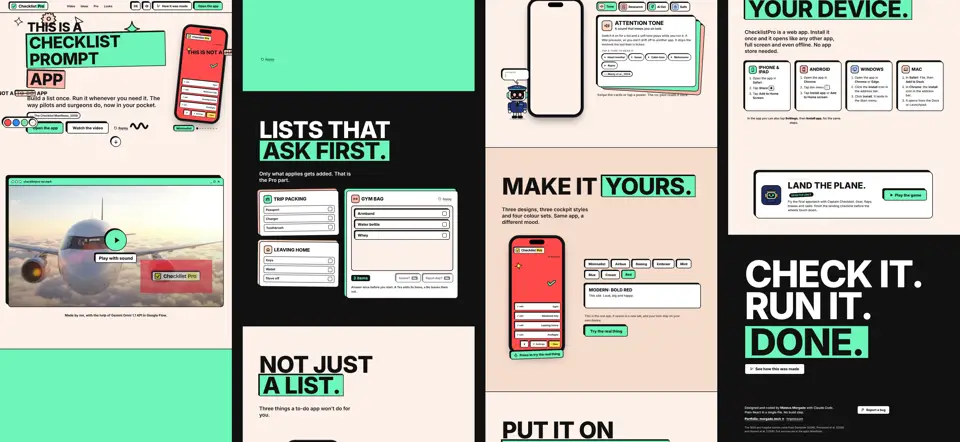
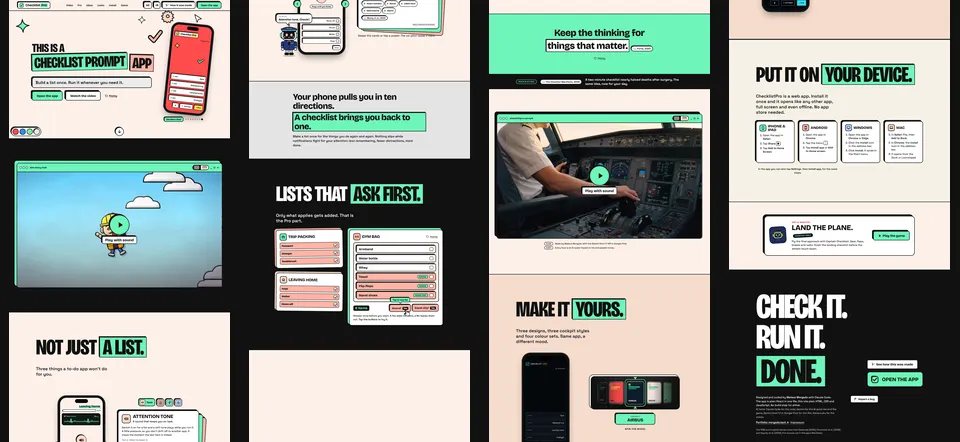
Cohesion: footer and AI credits, morgado.tech links, paper install section, fresh work-tree frames
- Footer says what is React (the app) and what is plain HTML/CSS/JS (this site),
  plus one line naming the AI tools; 'Gemini TTS 3.8 Flash' becomes 'Gemini 3.8 Flash'
- Canonical, share preview and every 'Open the app' link use checklist.morgado.tech
  and app.checklist.morgado.tech
- Install section on a paper background, breaking the run of red sections
- German 'Mach sie zu deiner.', Install and Game in the desktop menu
- Work tree: website stats 75 commits / ~14 h, a 'Today' frame for hero and page,
  palette frames re-shot from the current page; README lists the current sections

Claude-Session: https://claude.ai/code/session_01Ggus8v3osTjKtSPmUxgpTU

diff --git a/index.html b/index.html
@@ -27,13 +27,13 @@
 <link rel="preconnect" href="https://fonts.gstatic.com" crossorigin>
 <link rel="stylesheet" href="https://fonts.googleapis.com/css2?family=Bricolage+Grotesque:opsz,wdth,wght@12..96,75..100,200..800&family=Space+Grotesk:wght@400..700&display=swap">
 <link rel="stylesheet" href="css/site.css">
-<link rel="canonical" href="https://checklist-app-website.vercel.app/">
+<link rel="canonical" href="https://checklist.morgado.tech/">
 <meta property="og:type" content="website">
 <meta property="og:site_name" content="ChecklistPro">
-<meta property="og:url" content="https://checklist-app-website.vercel.app/">
+<meta property="og:url" content="https://checklist.morgado.tech/">
 <meta property="og:title" content="ChecklistPro: this is a checklist prompt app">
 <meta property="og:description" content="Not a to-do app. Not a habits app. Build a list once, run it whenever you need it, with one thumb.">
-<meta property="og:image" content="https://checklist-app-website.vercel.app/img/og.png">
+<meta property="og:image" content="https://checklist.morgado.tech/img/og.png">
 <meta property="og:image:type" content="image/png">
 <meta property="og:image:width" content="1200">
 <meta property="og:image:height" content="630">
@@ -41,7 +41,7 @@
 <meta name="twitter:card" content="summary_large_image">
 <meta name="twitter:title" content="ChecklistPro: this is a checklist prompt app">
 <meta name="twitter:description" content="Not a to-do app. Not a habits app. Build a list once, run it whenever you need it.">
-<meta name="twitter:image" content="https://checklist-app-website.vercel.app/img/og.png">
+<meta name="twitter:image" content="https://checklist.morgado.tech/img/og.png">
 </head>
 <body>
 <div class="grain" aria-hidden="true"></div>
@@ -63,19 +63,19 @@
     <span>Checklist<b>Pro</b></span>
   </a>
   <nav class="nav-links" aria-label="Sections">
-    <a href="#story">Video</a><a href="#pro">Pro</a><a href="#ideas">Ideas</a><a href="#looks">Looks</a>
+    <a href="#story">Video</a><a href="#pro">Pro</a><a href="#ideas">Ideas</a><a href="#looks">Looks</a><a href="#install">Install</a><a href="#game">Game</a>
   </nav>
   <div class="nav-cta">
     <button class="btn white icon lang" id="lang-toggle" type="button" data-no-i18n aria-label="Auf Deutsch wechseln">DE</button>
     <button class="btn white icon" id="sound-toggle" type="button" aria-pressed="true" aria-label="Click sounds: on. Press to turn off."><svg viewBox="0 0 24 24" aria-hidden="true"><path class="sp" d="M4 9v6h4l5 4V5L8 9z"/><path class="on-w" d="M16 8.5a5 5 0 0 1 0 7M18.5 6a8.5 8.5 0 0 1 0 12"/><path class="off-x" d="M16 9l5 6M21 9l-5 6"/></svg></button>
     <button class="btn white" id="open-journey" type="button" aria-label="How it was made: the work tree"><svg viewBox="0 0 24 24" aria-hidden="true"><path d="M6 4v8m0 0a3 3 0 1 0 0 6a3 3 0 0 0 0-6Zm0-8a2 2 0 1 0 0 .01M18 4v4a4 4 0 0 1-4 4h-2"/></svg><span>How it was made</span></button>
-    <a class="btn yellow" data-app href="https://checklist-app-topaz-six.vercel.app/" target="_blank" rel="noopener">Open the app</a>
+    <a class="btn yellow" data-app href="https://app.checklist.morgado.tech/" target="_blank" rel="noopener">Open the app</a>
     <button class="btn white icon menu-btn" id="menu-btn" type="button" aria-expanded="false" aria-controls="nav-panel" aria-label="Menu"><svg viewBox="0 0 24 24" aria-hidden="true"><path class="m1" d="M4 7h16"/><path class="m2" d="M4 12h16"/><path class="m3" d="M4 17h16"/></svg></button>
   </div>
   <div class="nav-panel" id="nav-panel" hidden>
     <a class="np-link" href="#story">Video</a><a class="np-link" href="#pro">Pro</a><a class="np-link" href="#ideas">Ideas</a><a class="np-link" href="#looks">Looks</a><a class="np-link" href="#install">Install</a><a class="np-link" href="#game">Game</a>
     <button class="btn white" id="np-journey" type="button"><svg viewBox="0 0 24 24" aria-hidden="true"><path d="M6 4v8m0 0a3 3 0 1 0 0 6a3 3 0 0 0 0-6Zm0-8a2 2 0 1 0 0 .01M18 4v4a4 4 0 0 1-4 4h-2"/></svg><span>How it was made</span></button>
-    <a class="btn yellow" data-app href="https://checklist-app-topaz-six.vercel.app/" target="_blank" rel="noopener">Open the app</a>
+    <a class="btn yellow" data-app href="https://app.checklist.morgado.tech/" target="_blank" rel="noopener">Open the app</a>
   </div>
 </header>
 
@@ -101,7 +101,7 @@
     <div class="confetti" id="confetti" aria-hidden="true"></div>
     <p class="sub reveal"><span class="sub-src">Build a list once. Run it whenever you need it.</span><span class="sub-type" aria-hidden="true" data-no-i18n></span></p>
     <div class="cta-row reveal">
-      <a class="btn big yellow" data-app href="https://checklist-app-topaz-six.vercel.app/" target="_blank" rel="noopener">Open the app</a>
+      <a class="btn big yellow" data-app href="https://app.checklist.morgado.tech/" target="_blank" rel="noopener">Open the app</a>
       <a class="btn big white" id="watch-btn" href="#story">Watch the video</a>
       <button class="replay" id="replay" type="button" aria-label="Replay the intro"><svg viewBox="0 0 24 24" aria-hidden="true"><path d="M4 12a8 8 0 1 0 3-6.2M4 4v4h4"/></svg>Replay</button>
     </div>
@@ -283,8 +283,8 @@
           </article>
           <article class="pw-card" data-scene="ai">
             <header><span class="pw-ic" style="--c:var(--yellow)"><svg viewBox="0 0 24 24"><rect x="9" y="2.5" width="6" height="11" rx="3"/><path d="M5.5 10.5a6.5 6.5 0 0 0 13 0M12 17v4M19.5 2.5l.7 1.8 1.8.7-1.8.7-.7 1.8-.7-1.8-1.8-.7 1.8-.7z"/></svg></span><div><h3 class="pw-name">AI quick list</h3><p class="pw-sub">Say it. Get a checklist.</p></div></header>
-            <p class="pw-more">Tap the bolt and say what’s on your mind, for up to 17 seconds. AI turns your words into a checklist you can edit before you save it. Good for groceries, packing, anything on the fly. Powered by the Gemini TTS 3.8 Flash model.</p>
-            <div class="pw-tags"><span>Gemini TTS 3.8 Flash</span><span>17 seconds</span><span>Edit before saving</span><span>3 a day</span></div>
+            <p class="pw-more">Tap the bolt and say what’s on your mind, for up to 17 seconds. AI turns your words into a checklist you can edit before you save it. Good for groceries, packing, anything on the fly. Powered by the Gemini 3.8 Flash model.</p>
+            <div class="pw-tags"><span>Gemini 3.8 Flash</span><span>17 seconds</span><span>Edit before saving</span><span>3 a day</span></div>
             <i class="pw-time"></i>
           </article>
           <article class="pw-card" data-scene="safe">
@@ -427,7 +427,7 @@
     <p class="lead reveal">Three designs, three cockpit styles and four colour sets. Same app, a different mood.</p>
     <div class="looks-grid">
       <div class="flow-phone">
-        <a class="phone-link" id="live-link" data-app href="https://checklist-app-topaz-six.vercel.app/" target="_blank" rel="noopener" aria-label="Open the real ChecklistPro app in a new tab">
+        <a class="phone-link" id="live-link" data-app href="https://app.checklist.morgado.tech/" target="_blank" rel="noopener" aria-label="Open the real ChecklistPro app in a new tab">
           <div class="phone tilt" id="looks-phone" style="--pw:min(300px, 72vw)"><div class="screen" id="looks-screen"></div></div>
         </a>
       </div>
@@ -447,7 +447,7 @@
 </section>
 
 <!-- INSTALL -->
-<section class="section" id="install" aria-labelledby="install-title">
+<section class="section paper" id="install" aria-labelledby="install-title">
   <div class="wrap">
     <h2 id="install-title" class="mega reveal"><span>Put it on</span> <span class="hl">your device.</span></h2>
     <p class="lead reveal">ChecklistPro is a web app. Install it once and it opens like any other app, full screen and even offline. No app store needed.</p>
@@ -494,9 +494,9 @@
   <div class="wrap">
     <div class="foot-top"><p class="foot-big">Check it.<br>Run it.<br><span class="hl">Done.</span></p>
       <div class="foot-acts"><button class="btn big white" id="open-journey-2" type="button"><svg viewBox="0 0 24 24" aria-hidden="true"><path d="M6 4v8m0 0a3 3 0 1 0 0 6a3 3 0 0 0 0-6Zm0-8a2 2 0 1 0 0 .01M18 4v4a4 4 0 0 1-4 4h-2"/></svg>See how this was made</button>
-      <a class="foot-cta" id="foot-cta" data-app href="https://checklist-app-topaz-six.vercel.app/" target="_blank" rel="noopener"><svg viewBox="0 0 64 64" aria-hidden="true"><rect x="9" y="9" width="40" height="40" rx="10" fill="#111"/><rect x="14" y="14" width="40" height="40" rx="10" class="fab-box"/><path d="M23 34.5l7 7 14.5-16" fill="none" stroke="#111" stroke-width="6" stroke-linecap="round" stroke-linejoin="round"/></svg><span>Open the app</span></a></div></div>
+      <a class="foot-cta" id="foot-cta" data-app href="https://app.checklist.morgado.tech/" target="_blank" rel="noopener"><svg viewBox="0 0 64 64" aria-hidden="true"><rect x="9" y="9" width="40" height="40" rx="10" fill="#111"/><rect x="14" y="14" width="40" height="40" rx="10" class="fab-box"/><path d="M23 34.5l7 7 14.5-16" fill="none" stroke="#111" stroke-width="6" stroke-linecap="round" stroke-linejoin="round"/></svg><span>Open the app</span></a></div></div>
     <div class="foot-row">
-      <p>Designed and coded by <b>Mateus Morgado</b> with Claude Code.<br>Plain React in a single file. No build step.<br><a class="foot-link" href="https://morgado.tech" target="_blank" rel="noopener">Portfolio: morgado.tech ↗</a> · <button class="foot-link as-link" id="open-imprint" type="button">Impressum</button></p>
+      <p>Designed and coded by <b>Mateus Morgado</b> with Claude Code.<br>The app is plain React in one file, this site plain HTML, CSS and JavaScript. No build step for either.<br><span class="foot-ai">AI tools: Claude Code for the code, Gemini for the AI quick list and the game, Gemini Omni 1.1 in Google Flow for the film, ElevenLabs for the voices.</span><br><a class="foot-link" href="https://morgado.tech" target="_blank" rel="noopener">Portfolio: morgado.tech ↗</a> · <button class="foot-link as-link" id="open-imprint" type="button">Impressum</button></p>
       <p><button class="btn white" id="open-report" type="button"><svg viewBox="0 0 24 24" aria-hidden="true"><path d="M5 21V4m0 0h11l-2 4 2 4H5"/></svg>Report a bug</button></p>
       <p class="small">The 1935 and hospital stories come from Gawande (2009), Pronovost et al. (2006) and Haynes et al. (2009). Full sources are in the app’s Manifesto.</p>
     </div>
@@ -572,8 +572,8 @@
       <dl class="jf-stats jw-stats">
         <div><dt>Prompts from Mateus</dt><dd data-to="69">69</dd></div>
         <div><dt>Steps by Claude Code</dt><dd data-to="497">497</dd></div>
-        <div><dt>Commits</dt><dd data-to="35">35</dd></div>
-        <div><dt>Hours of work</dt><dd data-to="5" data-pre="≈ ">≈ 5</dd></div>
+        <div><dt>Commits</dt><dd data-to="75">75</dd></div>
+        <div><dt>Hours of work</dt><dd data-to="14" data-pre="≈ ">≈ 14</dd></div>
       </dl>
     </div>
     <div class="jf" id="jf">

diff --git a/js/evo.js b/js/evo.js
@@ -1,2 +1,2 @@
 // Screenshots of this website at each commit, for the stop-motion in the work tree. [file, time of the commit]
-window.EVO = {"hero": [["hero-00.webp", "11:12"], ["hero-01.webp", "11:22"], ["hero-02.webp", "13:48"], ["hero-03.webp", "13:56"], ["hero-04.webp", "13:59"], ["hero-05.webp", "14:05"], ["hero-06.webp", "14:05"], ["hero-07.webp", "14:08"], ["hero-08.webp", "14:13"], ["hero-09.webp", "14:18"], ["hero-10.webp", "14:18"], ["hero-11.webp", "14:27"], ["hero-12.webp", "14:31"], ["hero-13.webp", "14:36"], ["hero-14.webp", "14:41"], ["hero-15.webp", "14:44"], ["hero-16.webp", "14:54"], ["hero-17.webp", "15:01"], ["hero-18.webp", "15:07"], ["hero-19.webp", "15:09"], ["hero-20.webp", "15:51"], ["hero-21.webp", "16:00"], ["hero-22.webp", "16:07"], ["hero-23.webp", "16:19"], ["hero-24.webp", "18:47"], ["hero-25.webp", "18:49"], ["hero-26.webp", "18:54"], ["hero-27.webp", "18:59"], ["hero-28.webp", "19:02"], ["hero-29.webp", "19:09"], ["hero-30.webp", "19:15"], ["hero-31.webp", "19:18"], ["hero-32.webp", "19:21"], ["hero-33.webp", "19:27"]], "page": [["page-00.webp", "11:12"], ["page-01.webp", "11:22"], ["page-04.webp", "13:59"], ["page-05.webp", "14:05"], ["page-06.webp", "14:05"], ["page-07.webp", "14:08"], ["page-08.webp", "14:13"], ["page-09.webp", "14:18"], ["page-11.webp", "14:27"], ["page-12.webp", "14:31"], ["page-13.webp", "14:36"], ["page-14.webp", "14:41"], ["page-15.webp", "14:44"], ["page-16.webp", "14:54"], ["page-17.webp", "15:01"], ["page-18.webp", "15:07"], ["page-19.webp", "15:09"], ["page-20.webp", "15:51"], ["page-21.webp", "16:00"], ["page-22.webp", "16:07"], ["page-23.webp", "16:19"], ["page-24.webp", "18:47"], ["page-25.webp", "18:49"], ["page-26.webp", "18:54"], ["page-27.webp", "18:59"], ["page-28.webp", "19:02"], ["page-29.webp", "19:09"], ["page-30.webp", "19:15"], ["page-31.webp", "19:18"], ["page-32.webp", "19:21"], ["page-33.webp", "19:27"], ["pal-blue.webp", "Blue"], ["pal-mint.webp", "Mint"], ["pal-cream.webp", "Cream"], ["page-33.webp", "Red"]]};
+window.EVO = {"hero": [["hero-00.webp", "11:12"], ["hero-01.webp", "11:22"], ["hero-02.webp", "13:48"], ["hero-03.webp", "13:56"], ["hero-04.webp", "13:59"], ["hero-05.webp", "14:05"], ["hero-06.webp", "14:05"], ["hero-07.webp", "14:08"], ["hero-08.webp", "14:13"], ["hero-09.webp", "14:18"], ["hero-10.webp", "14:18"], ["hero-11.webp", "14:27"], ["hero-12.webp", "14:31"], ["hero-13.webp", "14:36"], ["hero-14.webp", "14:41"], ["hero-15.webp", "14:44"], ["hero-16.webp", "14:54"], ["hero-17.webp", "15:01"], ["hero-18.webp", "15:07"], ["hero-19.webp", "15:09"], ["hero-20.webp", "15:51"], ["hero-21.webp", "16:00"], ["hero-22.webp", "16:07"], ["hero-23.webp", "16:19"], ["hero-24.webp", "18:47"], ["hero-25.webp", "18:49"], ["hero-26.webp", "18:54"], ["hero-27.webp", "18:59"], ["hero-28.webp", "19:02"], ["hero-29.webp", "19:09"], ["hero-30.webp", "19:15"], ["hero-31.webp", "19:18"], ["hero-32.webp", "19:21"], ["hero-33.webp", "19:27"], ["hero-34.webp", "Today"]], "page": [["page-00.webp", "11:12"], ["page-01.webp", "11:22"], ["page-04.webp", "13:59"], ["page-05.webp", "14:05"], ["page-06.webp", "14:05"], ["page-07.webp", "14:08"], ["page-08.webp", "14:13"], ["page-09.webp", "14:18"], ["page-11.webp", "14:27"], ["page-12.webp", "14:31"], ["page-13.webp", "14:36"], ["page-14.webp", "14:41"], ["page-15.webp", "14:44"], ["page-16.webp", "14:54"], ["page-17.webp", "15:01"], ["page-18.webp", "15:07"], ["page-19.webp", "15:09"], ["page-20.webp", "15:51"], ["page-21.webp", "16:00"], ["page-22.webp", "16:07"], ["page-23.webp", "16:19"], ["page-24.webp", "18:47"], ["page-25.webp", "18:49"], ["page-26.webp", "18:54"], ["page-27.webp", "18:59"], ["page-28.webp", "19:02"], ["page-29.webp", "19:09"], ["page-30.webp", "19:15"], ["page-31.webp", "19:18"], ["page-32.webp", "19:21"], ["page-33.webp", "19:27"], ["page-34.webp", "Today"], ["pal-blue.webp", "Blue"], ["pal-mint.webp", "Mint"], ["pal-cream.webp", "Cream"], ["page-34.webp", "Red"]]};

diff --git a/js/i18n-data.js b/js/i18n-data.js
@@ -53,7 +53,7 @@ window.I18N_DE = {
 "No cloud": "Keine Cloud",
 "Stored on your device": "Auf deinem Gerät gespeichert",
 "Works offline": "Funktioniert offline",
-"Tap the bolt and say what’s on your mind, for up to 17 seconds. AI turns your words into a checklist you can edit before you save it. Good for groceries, packing, anything on the fly. Powered by the Gemini TTS 3.8 Flash model.": "Tippe auf den Blitz und sag bis zu 17 Sekunden lang, was dir durch den Kopf geht. Die KI macht aus deinen Worten eine Checkliste, die du vor dem Speichern bearbeiten kannst. Gut für Einkäufe, Packen, alles, was spontan anfällt. Angetrieben vom Modell Gemini TTS 3.8 Flash.",
+"Tap the bolt and say what’s on your mind, for up to 17 seconds. AI turns your words into a checklist you can edit before you save it. Good for groceries, packing, anything on the fly. Powered by the Gemini 3.8 Flash model.": "Tippe auf den Blitz und sag bis zu 17 Sekunden lang, was dir durch den Kopf geht. Die KI macht aus deinen Worten eine Checkliste, die du vor dem Speichern bearbeiten kannst. Gut für Einkäufe, Packen, alles, was spontan anfällt. Angetrieben vom Modell Gemini 3.8 Flash.",
 "Book": "Buch",
 "Why short checklists catch the steps that even experts skip, from cockpits to operating rooms.": "Warum kurze Checklisten die Schritte auffangen, die selbst Profis überspringen, vom Cockpit bis zum OP.",
 "A five-step checklist in intensive care units cut these infections by up to 66%.": "Eine Checkliste mit fünf Schritten senkte diese Infektionen auf Intensivstationen um bis zu 66 %.",
@@ -333,8 +333,8 @@ window.I18N_DE = {
 "Pick your cues": "Wähle deine Signale",
 "Add items, drag to reorder": "Einträge hinzufügen, zum Sortieren ziehen",
 "Tap a step to jump to it. The phone plays on its own.": "Tippe auf einen Schritt, um dorthin zu springen. Das Handy spielt von allein.",
-"Make it": "Mach es",
-"yours.": "zu deinem.",
+"Make it": "Mach sie",
+"yours.": "zu deiner.",
 "Three designs, three cockpit styles and four colour sets. Same app, a different mood.": "Drei Designs, drei Cockpit-Stile und vier Farbsets. Dieselbe App, eine andere Stimmung.",
 "Minimalist": "Minimalistisch",
 "Mint": "Mint",
@@ -375,7 +375,8 @@ window.I18N_DE = {
 "Done.": "Erledigt.",
 "Designed and coded by": "Entworfen und programmiert von",
 "with Claude Code.": "mit Claude Code.",
-"Plain React in a single file. No build step.": "Reines React in einer einzigen Datei. Kein Build-Schritt.",
+"The app is plain React in one file, this site plain HTML, CSS and JavaScript. No build step for either.": "Die App ist reines React in einer Datei, diese Seite reines HTML, CSS und JavaScript. Beides ohne Build-Schritt.",
+"AI tools: Claude Code for the code, Gemini for the AI quick list and the game, Gemini Omni 1.1 in Google Flow for the film, ElevenLabs for the voices.": "KI-Werkzeuge: Claude Code für den Code, Gemini für die KI-Schnellliste und das Spiel, Gemini Omni 1.1 in Google Flow für den Film, ElevenLabs für die Stimmen.",
 "Report a bug": "Fehler melden",
 "The 1935 and hospital stories come from Gawande (2009), Pronovost et al. (2006) and Haynes et al. (2009). Full sources are in the app’s Manifesto.": "Die Geschichten von 1935 und aus den Krankenhäusern stammen von Gawande (2009), Pronovost et al. (2006) und Haynes et al. (2009). Alle Quellen stehen im Manifest der App.",
 "Something broken, confusing, or missing? Tell me and I will read it.": "Etwas kaputt, verwirrend oder fehlt? Sag es mir, ich lese es.",

diff --git a/css/site.css b/css/site.css
@@ -1193,3 +1193,7 @@ body.caret-hold .hero .sub-type::after { content: ''; display: inline-block; wid
 
 /* long German card titles (Aufmerksamkeitston) fit a phone card, breaking at the soft hyphen if they must */
 @media (max-width: 520px) { html[lang="de"] .pw-card h3.pw-name { font-size: 21px; } }
+
+/* the install section sits on paper, so the long run of red sections gets a break */
+.section.paper { background: #f6f1e7; border-top: var(--b) solid var(--ink); border-bottom: var(--b) solid var(--ink); }
+.foot-ai { opacity: .75; font-size: .92em; }

diff --git a/js/config.js b/js/config.js
@@ -1,5 +1,5 @@
 // Where the real app lives. Change this if the app's address changes.
-window.APP_URL = 'https://checklist-app-topaz-six.vercel.app';
+window.APP_URL = 'https://app.checklist.morgado.tech';
 window.APP_LIVE = window.APP_URL + '/?design=modern&palette=red&mode=light';
 // The ad video. Keep the default to play video/ad-720p.mp4 from this site, or put a full address here
 // (for example a Google Cloud Storage link: https://storage.googleapis.com/YOUR-BUCKET/ad-720p.mp4).

diff --git a/README.md b/README.md
@@ -10,22 +10,31 @@ python3 -m http.server 8000   # then open http://localhost:8000
 
 ## What is on the page
 
-1. **Hero**: "This is not a To-Do app. This is not a habits app. This is a checklist prompt app." Each line slams in, the first two get struck through, the last one lands with confetti. (`Replay` runs it again.)
-2. **Video**: a silent teaser (`video/teaser.mp4`, 6-10 s, no audio, about 1-2 MB) loops in the window until someone presses *Play with sound*, which starts the full ad from the beginning; when it ends the teaser loops again. The teaser is paused off screen and with reduced motion. Without a teaser file the poster is shown. Addresses can be changed in `js/config.js` (`TEASER_SRC`, `VIDEO_SRC`). 
-3. **Lists that ask first**: the Pro part. Two simple lists tick themselves, then a Gym bag shows conditionals: a cursor answers Yes to "Sauna?" and "Squat day?", and towel, flip-flops and squat shoes join the list. Afterwards you can flip each answer yourself.
-4. **See how it flows**: an iPhone mockup that plays four real flows (run, ask, say it, build it) from screenshots of the real app, with a tap indicator.
-5. **Make it yours**: the eight looks of the app (Minimalist, three cockpit styles, four Modern colours).
-6. **Try the real thing**: the live app in a phone, loaded on tap. Set the address in `js/config.js` (`APP_URL`).
-7. **From cockpits to your pocket**: why checklists matter.
-8. **How it was made**: the button in the top bar opens a *work tree* of the whole conversation: ideas, decisions, features, bugs, parked branches and what shipped. Filter it by type. Link straight to it with `#journey`.
+Live at **https://checklist.morgado.tech**; the app itself is at https://app.checklist.morgado.tech.
+
+1. **Hero**: "This is not a To-Do app. This is not a habits app. This is a checklist prompt app." Each line slams in, the first two get struck through, the last one lands with confetti. A pointer then picks a colour set for the page. The phone swipes through the app's eight looks. (`Replay` runs it again.)
+2. **The story**: an animated ad with Alex and the co-pilot (`video/alex-story-en.mp4` / `-de.mp4`, captions in `.vtt`). A silent teaser loops until someone presses *Play with sound*; flag tabs in the window bar switch the language. Sources and render steps are in `video/alex-story/`.
+3. **Not just a list**: four Pro powers (attention tone, research, AI quick list, stored on the device), each played in a phone and read back by the co-pilot. Tap a tone to hear it; the study chips open a book or paper card.
+4. **Lists that ask first**: two simple lists tick themselves, then a Gym bag shows conditionals: a cursor answers Yes to "Sauna?" and "Squat day?", and towel, flip-flops and squat shoes join the list. Afterwards you can flip each answer yourself.
+5. **Why a checklist** and **Inspiration**: the Forte quote and The Checklist Manifesto.
+6. **The film**: the real-life ad (`video/ad-720p.mp4` / `ad-720p-de.mp4`) behind a silent teaser that only loads when it scrolls into view. Addresses can be changed in `js/config.js` (`TEASER_SRC`, `VIDEO_SRC`).
+7. **Make it yours**: spin the drum to see the eight looks of the app (Minimalist, three cockpit styles, four Modern colours). The phone links to the live app.
+8. **Put it on your device**: install steps for iPhone, Android, Windows and Mac.
+9. **Land the plane**: a small 3D landing game (`game/`), loaded only when someone presses Play.
+10. **How it was made**: the button in the top bar opens a *work tree* of the whole conversation: ideas, decisions, features, bugs, parked branches and what shipped, for the app and for this website (with a stop-motion of the site, one screenshot per commit, in `img/evo/`). Filter it by type. Link straight to it with `#journey`.
 
 ## Files
 
 - `index.html`, `css/site.css`
 - `js/site.js`: animations and interactions
 - `js/journey.js`: the work tree (edit the `ROWS` list to add or change entries)
-- `js/frames.js`, `img/frames/*.webp`: screenshots of the app and where the finger taps
-- `js/config.js`: the app's address
+- `js/evo.js`, `img/evo/*.webp`: the website's stop-motion in the work tree
+- `js/frames.js`, `img/frames/*.webp`: screenshots of the app's looks
+- `js/i18n.js`, `js/i18n-data.js`: the German version
+- `js/config.js`: the app's address and the video files
+- `api/report.js`: the Report a bug form
+- `game/`: the landing game
+- `video/`: the videos, captions and the story's sources
 
 ## Report a bug
 
